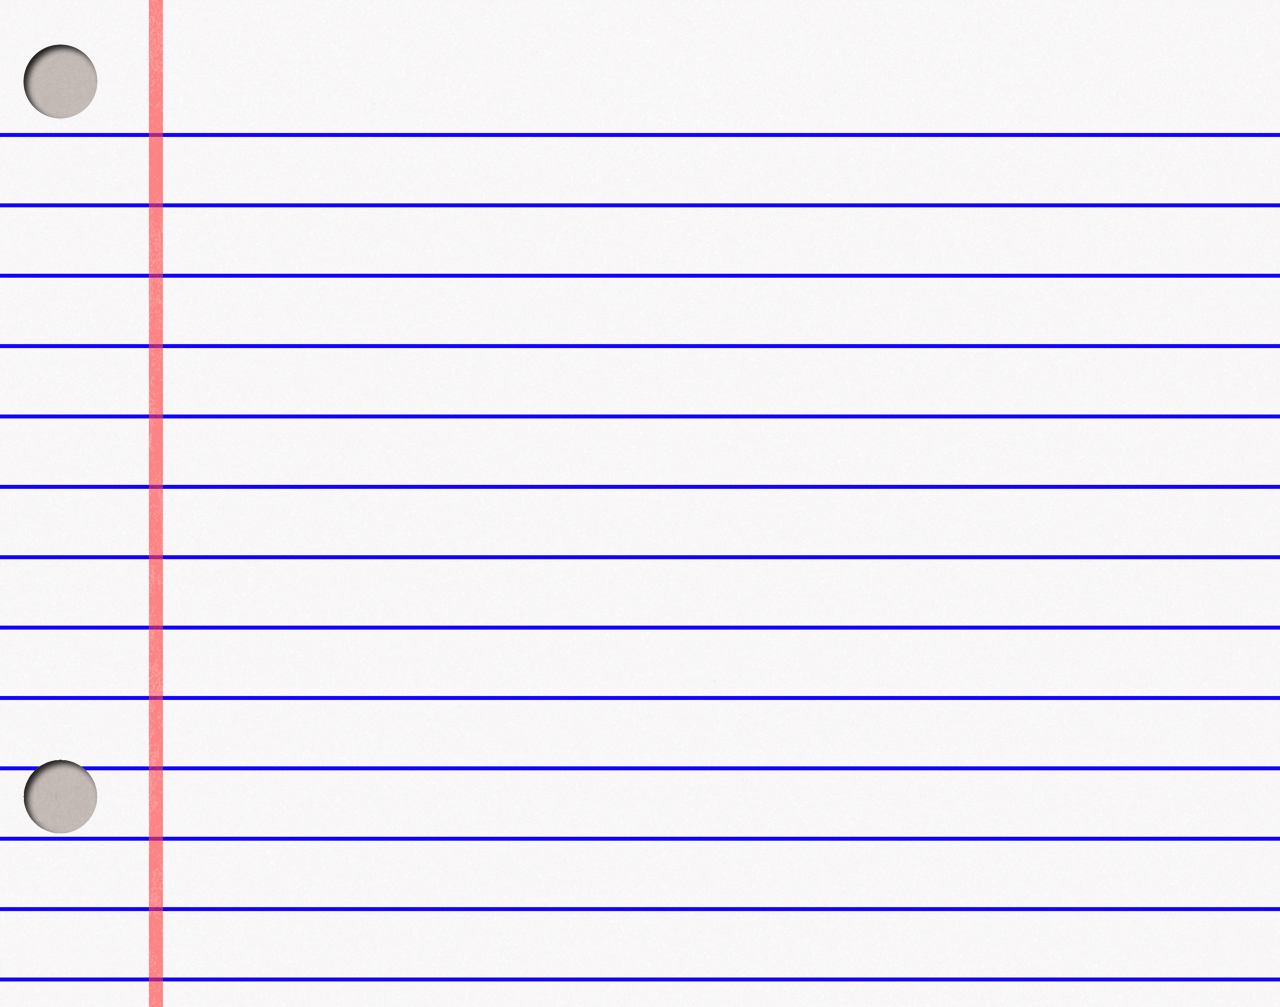
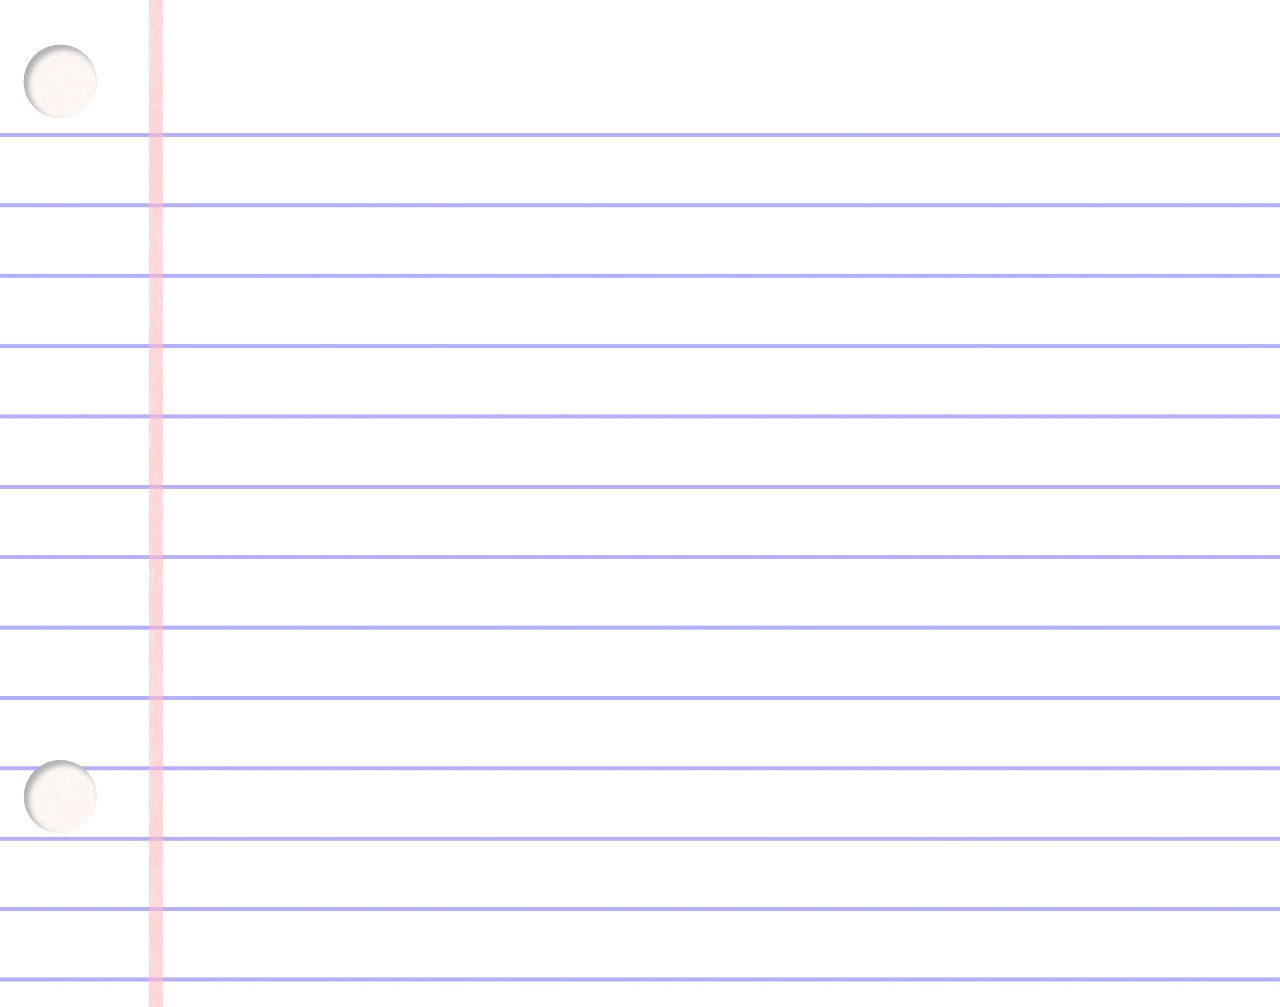
CSS styling

Changed region(s): [[0.0, 0.0, 1.0, 1.0]]

diff --git a/client/stylesheets/style.css b/client/stylesheets/style.css
@@ -1,18 +1,57 @@
+html {
+  background: url(/notebook-paper.jpg) no-repeat fixed;
+  -webkit-background-size: cover;
+  -moz-background-size: cover;
+  -o-background-size: cover;
+  background-size: 1280px 1077px;
+  background-position: 0px -50px;
+}
+
 body {
-  font-family: 'Fugaz One', cursive;
+  border-radius: 10px;
+  font-family: 'La Belle Aurore', cursive;
+  background: transparent;
+  border: transparent;
+  position: absolute; left: 65px; top: 22px;
+  width: 90%;
+}
+
+.header {
+  background: transparent;
+  border: transparent;
+}
+
+.navbar-brand {
+  font-family: 'Homemade Apple';
+  padding-left: 45px;
+  font-size: 3.5em;
+}
+
+.login {
+  font-size: 2em;
+  margin-top: 10px;
 }
 
 .search-group {
-  margin: 3em 0em 0em 5em
+  margin: 100px 0em 0em 60px;
 }
 
 .search-heading {
+  font-family: 'Courgette';
   font-size: 2.2em;
 }
 
 .search-box {
-  font-family: 'Belgrano';
+  background: transparent;
+  border: transparent;
+  background: none;
+/*  font-family: 'Belgrano';*/
+  opacity: .9;
   font-size: 1.4em;
   width: 40em;
   height: 2.8em;
+}
+
+.search-box:focus {
+  outline: none !important;
 }

diff --git a/client/includes/header.html b/client/includes/header.html
@@ -1,5 +1,5 @@
 <template name="header">
-  <header class="navbar navbar-default" role="header">
+  <header class="navbar navbar-default header" role="header">
     <div class="container-fluid">
 
       <!-- Brand and toggle get grouped for better mobile display -->
@@ -10,12 +10,12 @@
           <span class="icon-bar"></span>
           <span class="icon-bar"></span>
         </button>
-        <a class="navbar-brand" href="{{pathFor 'home'}}">Outsco.red</a>
+        <a class="navbar-brand" href="{{pathFor 'home'}}">Outscored</a>
       </div>
 
       <div class="collapse navbar-collapse" id="bs-example-navbar-collapse-1">
         <ul>
-          <li class="nav navbar-nav navbar-right">{{> loginButtons}}</li>
+          <li class="nav navbar-nav navbar-right login">{{> loginButtons}}</li>
         </ul>
       </div><!-- /.navbar-collapse -->
 

diff --git a/client/application/layout.html b/client/application/layout.html
@@ -1,5 +1,5 @@
 <template name="layout">
-  <link href='http://fonts.googleapis.com/css?family=Belgrano|Fugaz+One|Audiowide' rel='stylesheet' type='text/css'>
+  <link href='http://fonts.googleapis.com/css?family=La+Belle+Aurore|Schoolbell|Homemade+Apple|Nothing+You+Could+Do|Belgrano|Fugaz+One|Audiowide|Courgette' rel='stylesheet' type='text/css'>
   <div class="container">
     <body>
       {{> header}}

diff --git a/client/application/home.html b/client/application/home.html
@@ -1,6 +1,6 @@
 <template class="search-group" name="home">
   <div class="search-group">
     <h1 class="search-heading">What do you want to improve?</h1>
-    <input class="search-box" type="search" placeholder="Search for a test, subject, or job" />
+    <input class="search-box" type="search" autofocus="true" placeholder="Search for a test, subject, or job" />
   </div>
 </template>
